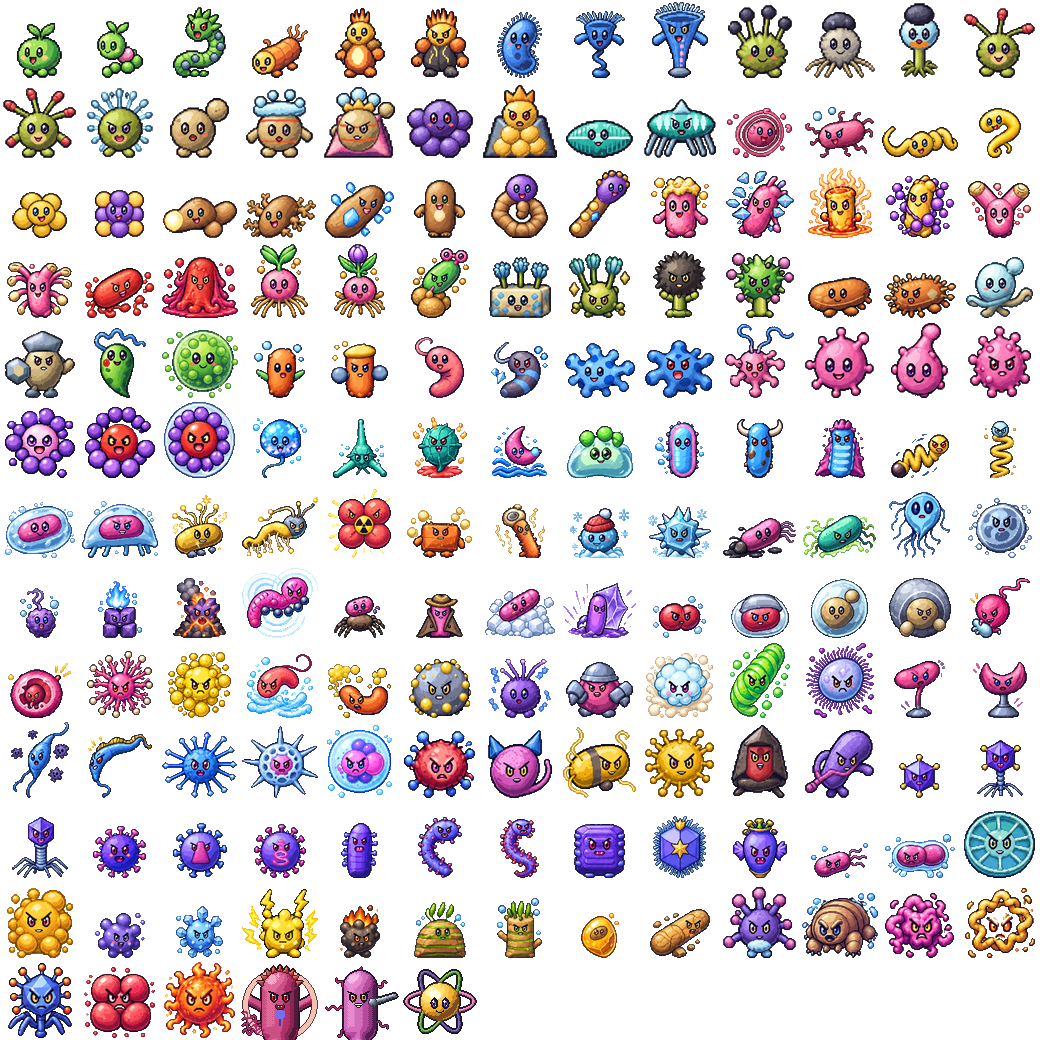
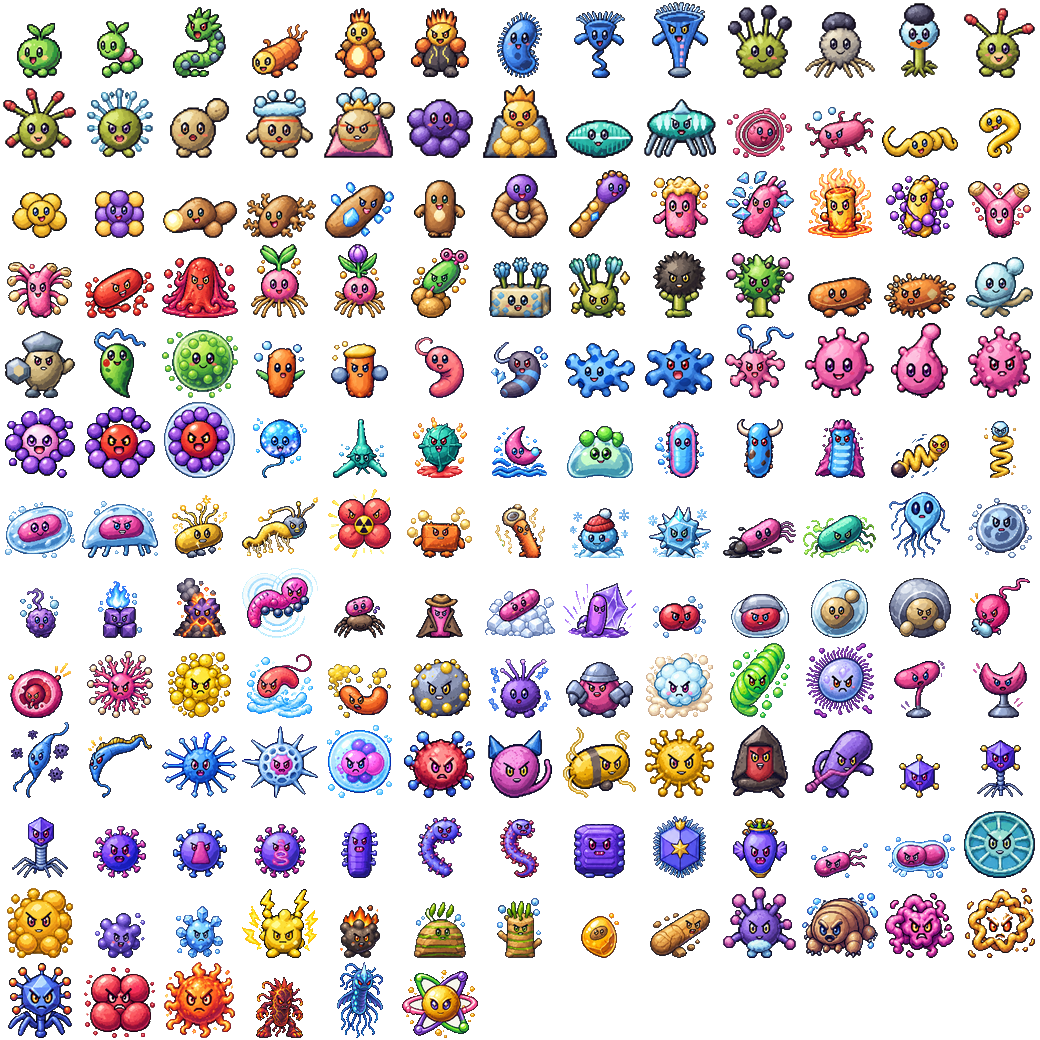
Sprites del usuario para los legendarios y LUCA: los 162 Microos con sus sprites
Claude-Session: https://claude.ai/code/session_018v1fAZrQHSEnPWssP3zxe4

Changed region(s): [[0.2154, 0.9231, 0.4615, 1.0]]

diff --git a/tools/art/microos_usuario.py b/tools/art/microos_usuario.py
@@ -47,7 +47,9 @@ LAMINAS = {
                       ["diatomax", "myxococcus", "lokiarca"]],
     # incluye un Plasmodium mejorado que sustituye al de sueltos_2
     "sueltos_3a.png": [["plasmodium", "prion-sc", "viroid-cad"], ["sputnik-v", "deinococ", "pyrococcus"]],
-    "tardigrad.png": [["tardigrad"]],      # versión mejorada (sustituye a la de lineas_54_57)
+    "tardigrad.png": [["tardigrad"]],
+    "legendarios.png": [["ecoli-o157", "salmonella-typhimurium"]],
+    "luca.png": [["luca"]],      # versión mejorada (sustituye a la de lineas_54_57)
 }
 
 # láminas con figuras que no ocupan columnas iguales: cortes en x (px) por fila; entre cada par de cortes va una figura
@@ -71,18 +73,24 @@ CORTES = {
                       [0, 260, 515, 765, 1020, 1275, 9999]],
     "sueltos_3a.png": [[0, 258, 515, 770, 1020, 1288, 9999], [0, 260, 515, 780, 1020, 1295, 9999]],
     "tardigrad.png": [[0, 266, 9999]],
+    "legendarios.png": [[0, 410, 775, 1165, 9999]],
+    "luca.png": [[0, 885, 9999]],
 }
 
 HUECOS = {"sueltos_3a.png"}
+UMBRAL_FONDO = {"legendarios.png": 192}
 
 # cortes en y (px) entre filas, para láminas cuyas filas no son de igual altura
 FILAS = {"lineas_54_57.png": [0, 240, 485, 760, 9999], "sueltos_1.png": [0, 330, 650, 9999],
-         "sueltos_2.png": [0, 330, 650, 9999], "sueltos_3a.png": [0, 310, 9999]}
+         "sueltos_2.png": [0, 330, 650, 9999], "sueltos_3a.png": [0, 310, 9999],
+         # los rótulos llevan adornos (líneas, criobola, ADN): se toma solo lo que queda por debajo
+         "legendarios.png": [250, 9999], "luca.png": [182, 9999]}
 
 
 def figuras(path, rejilla, cortes=None, filas_y=None):
     a = np.array(Image.open(path).convert("RGB")); f = a.astype(int)
-    fondo = (f.min(2) > 215) & (f.max(2) - f.min(2) < 26)
+    # en algunas láminas el dibujo lleva una sombra gris clara bajo los pies: también cuenta como fondo
+    fondo = (f.min(2) > (UMBRAL_FONDO.get(path.name, 215))) & (f.max(2) - f.min(2) < 26)
     lab, _ = label(fondo)
     borde = set(np.unique(np.concatenate([lab[0], lab[-1], lab[:, 0], lab[:, -1]]))) - {0}
     # zonas de fondo encerradas: normalmente son brillos o cápsulas translúcidas del dibujo y se conservan; en las

diff --git a/PROGRESO.md b/PROGRESO.md
@@ -315,5 +315,9 @@ Roadmap: 7 fases (0–6). Cada fase termina en una puerta.
 - `conexion.ts`: si no hay sala de la página publicada, la técnica ofrece CREAR / UNIRSE; la conexión se reutiliza al volver al Club.
 - Archivo para jugar en local: `dist/indexEdiciones.html` (todo incrustado). Prueba: `tools/pruebas/conexion_directa.cjs` (dos pestañas, WebRTC real; intercambio y combate OK).
 
+## Sprites del usuario: legendarios y LUCA (162/162)
+
+- `assets/reference/microos/legendarios.png` (E. coli O157:H7, Salmonella Typhimurium) y `luca.png`; `FILAS` deja fuera los rótulos adornados y `UMBRAL_FONDO` quita la sombra gris bajo los pies. Ya no queda ningún Microo con sprite generado.
+
 ## Siguiente tarea
 Pendiente del GDD: Modo Torneo y mochila bloqueada en Difícil, objetos equipados, variocolor y RandomLocke. Posibles mejoras: más diálogos y misiones secundarias, mejorar la calidad de los sprites (Microos diseñados por especie, retratos limpios, pasos), música y efectos.
